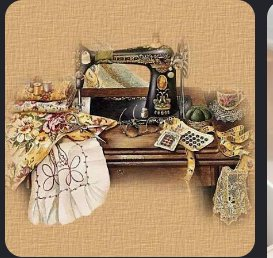
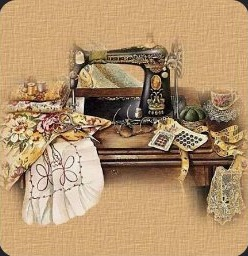
fix(stitching): crop dark border and fix aspect ratio fit for vintage sewing machine backdrop

diff --git a/src/features/workstation/panels/StationShell.tsx b/src/features/workstation/panels/StationShell.tsx
@@ -125,19 +125,19 @@ export function StationShell() {
               {/* Aesthetic stitching backdrop blend for stitching workstation */}
               {effectiveStation === "stitching" && (
                 <div
-                  className="pointer-events-none absolute right-0 top-0 bottom-0 w-64 md:w-80 select-none overflow-hidden"
+                  className="pointer-events-none absolute right-0 top-0 bottom-0 flex items-center justify-end select-none overflow-hidden pr-1"
                   style={{
                     maskImage:
-                      "linear-gradient(to left, rgba(0,0,0,0.45) 0%, rgba(0,0,0,0.15) 60%, transparent 100%)",
+                      "linear-gradient(to left, rgba(0,0,0,1) 0%, rgba(0,0,0,0.85) 55%, rgba(0,0,0,0.2) 85%, transparent 100%)",
                     WebkitMaskImage:
-                      "linear-gradient(to left, rgba(0,0,0,0.45) 0%, rgba(0,0,0,0.15) 60%, transparent 100%)",
+                      "linear-gradient(to left, rgba(0,0,0,1) 0%, rgba(0,0,0,0.85) 55%, rgba(0,0,0,0.2) 85%, transparent 100%)",
                   }}
                 >
                   <img
                     src="/images/stitching/vintage-sewing-aesthetic.jpg"
-                    alt=""
+                    alt="Vintage stitching machine"
                     aria-hidden="true"
-                    className="h-full w-full object-cover object-right opacity-30 mix-blend-multiply dark:opacity-15 dark:mix-blend-luminosity"
+                    className="h-full w-auto max-w-[260px] object-contain object-right opacity-90 brightness-105 contrast-105"
                   />
                 </div>
               )}
